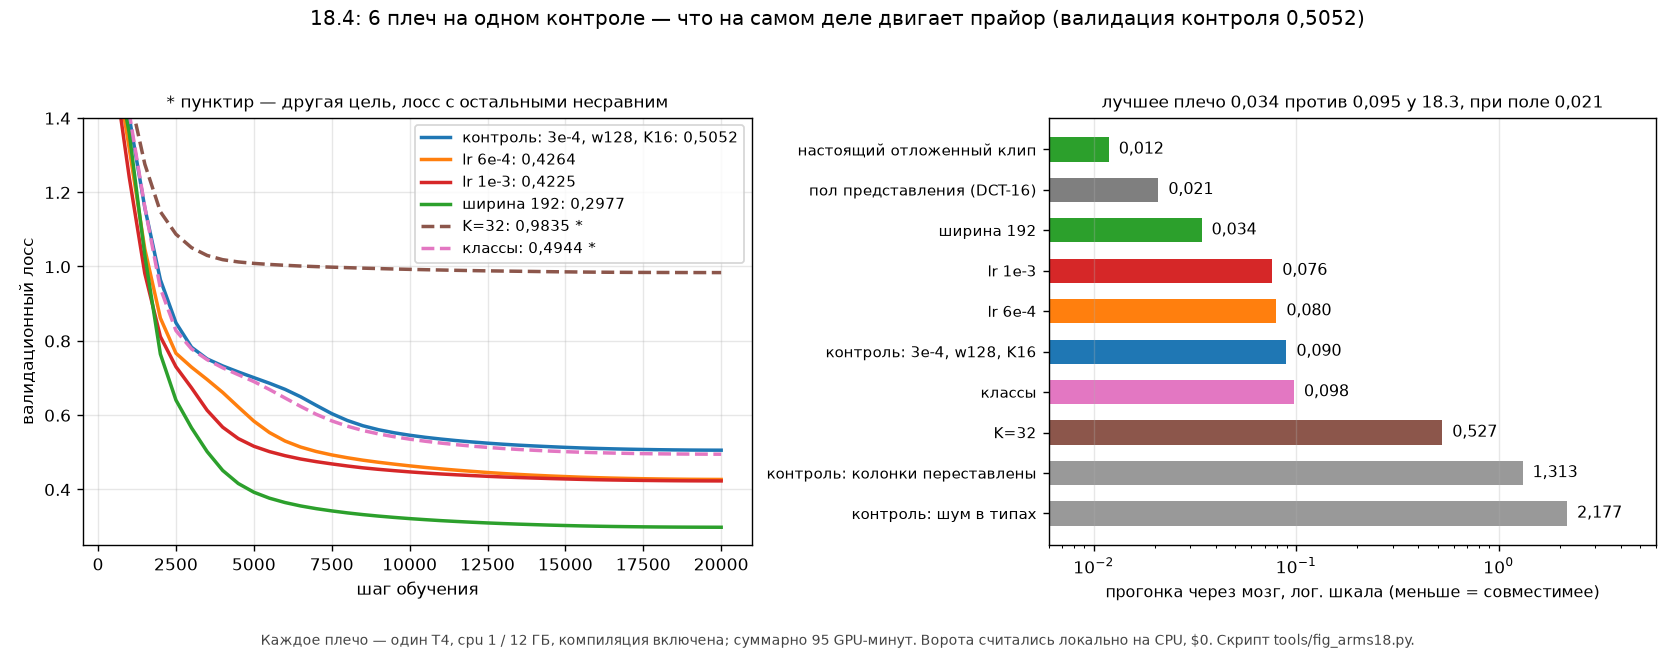
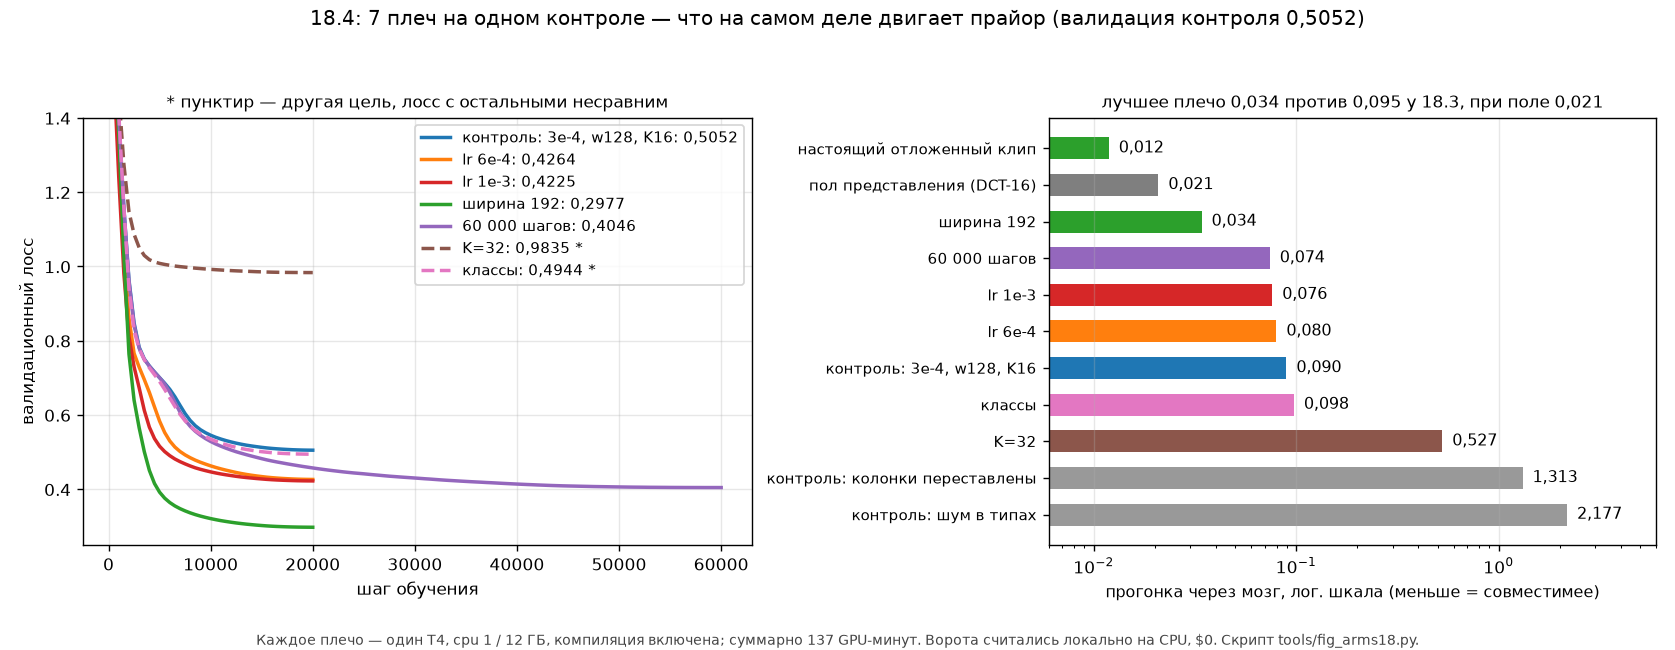
18.4c: 60k steps converge at 0.074 - the rate/length arms collapse onto lr x steps, and the rate buys it 2.8x cheaper; report, roadmap, run log, seven-arm figure

diff --git a/reports/2026-09-20_step18_4_throughput_and_learning_rate.md b/reports/2026-09-20_step18_4_throughput_and_learning_rate.md
@@ -6,7 +6,7 @@ Code `deploy/modal/generate_app.py::{bench17, dct_maps, train17}`,
 `flydream/generate/prior17.py` (compile, class conditioning),
 `flydream/generate/samples17.py` (a label per sample); figures
 `tools/fig_bench17.py`, `tools/fig_lr18.py`, `tools/fig_arms18.py`.
-**Cost: $1.46 on nine Modal containers**; every gate below is local CPU, $0.
+**Cost: $1.93 on ten Modal containers**; every gate below is local CPU, $0.
 Checkpoints on `flydream-runs:/prior18/`, local copies in `data/prior18/`.
 
 The headline in one line: **width 192 moves the main gate 0.095 → 0.034**,
@@ -26,6 +26,7 @@ The gate is the round trip of 16 samples through the frozen brain.
 | lr 6e-4 | 0.4264 | **0.080** | +0.40 |
 | lr 1e-3 | 0.4225 | **0.076** | +0.42 |
 | **width 192** | **0.2977** | **0.034** | +0.45 |
+| 60,000 steps | 0.4046 | **0.074** | +0.38 |
 | K = 32 | 0.9835 ‡ | 0.527 | +0.12 |
 | lr 1e-4 (18.4b, uncompiled) | 0.7328 | 0.591 | +0.16 |
 | *the representation's floor* (a real state at DCT-16) | — | *0.021* | +0.52 |
@@ -85,6 +86,26 @@ DiT/SiT's 1e-4 @ 256 down to our batch. Three arms settle the direction:
 extrapolated 1e-4 is 6.6× worse than our own setting, and the series is still
 improving at 1e-3, so the optimum is at or above 1e-3 and **is not bracketed**.
 It is also flattening: 3e-4 → 6e-4 buys 0.010, 6e-4 → 1e-3 buys 0.004.
+
+**Length is the same lever, bought dearer.** The 60,000-step arm (same 3e-4)
+settles 18.3's open question — validation was still falling at 20,000, and
+running three times longer does converge: −0.41 % over the last 10,000 steps,
+landing at validation 0.4046 and a gate of **0.074**. Put the four arms in
+terms of the product **lr × steps** and they collapse onto one curve:
+
+| lr × steps (units of 1e-4 × 1,000 steps) | arm | round trip | cost |
+|---|---|---|---|
+| 60 | 20k at 3e-4 (control) | 0.090 | $0.18 |
+| 120 | 20k at 6e-4 | 0.080 | $0.17 |
+| 180 | **60k at 3e-4** | **0.074** | **$0.47** |
+| 200 | **20k at 1e-3** | **0.076** | **$0.17** |
+| *60* | *20k at 3e-4, width 192* | *0.034* | *$0.24* |
+
+60k at 3e-4 and 20k at 1e-3 are **interchangeable** (0.074 against 0.076 at 180
+against 200 units) — and the learning rate buys that product **2.8× cheaper**
+than steps do. Width 192 sits at the *same* 60 units as the control and scores
+0.034, entirely off this curve: capacity is a different axis, and it dominates
+the one these four share.
 
 The 1e-4 arm also shows why novelty is never reported alone. Its samples are
 *less* correlated with each other and *further* from the nearest training video
@@ -178,7 +199,9 @@ cell viewed before sending).
 1. **Capacity first.** Width 192 alone is worth more than every other lever
    tested put together, and the prior is no longer the dominant term.
 2. **The learning rate is not bracketed.** 1e-3 is the best measured point and
-   the series has not turned.
+   the series has not turned. What the four length/rate arms share is the
+   product lr × steps; the rate is the cheap way to buy it, and **more steps
+   is the expensive way** — $0.47 for what $0.17 already gives.
 3. **Two levers are dead for now:** classes (no effect — and the same-noise
    diagnostic shows why: the label displaces the sample by r 0.09 where the
    noise decides the rest, and what it carries is not motion) and K = 32 (much
@@ -213,9 +236,10 @@ cell viewed before sending).
 
 ## Cost
 
-Nine containers, all cpu 1 / 12 GB except the maps builder: bench17 120.6 s
+Ten containers, all cpu 1 / 12 GB except the maps builder: bench17 120.6 s
 ≈ $0.03; lr 1e-4 1,243 s ≈ $0.24; `dct_maps` cpu 2 / 24 GB 106.5 s ≈ $0.03;
 then the sweep — control 920 s ≈ $0.18, 6e-4 863 s ≈ $0.17, 1e-3 842 s ≈ $0.17,
-width 192 1,215 s ≈ $0.24, K = 32 1,033 s ≈ $0.23, classes 845 s ≈ $0.17. GPU
+width 192 1,215 s ≈ $0.24, K = 32 1,033 s ≈ $0.23, classes 845 s ≈ $0.17,
+60,000 steps 2,479 s ≈ $0.47. GPU
 utilisation 97-98 % on every training arm. Gates, figures and analysis local
-CPU, $0. **Item 18 total ≈ $2.04.**
+CPU, $0. **Item 18 total ≈ $2.51.**

diff --git a/ROADMAP.md b/ROADMAP.md
@@ -360,6 +360,7 @@ spent.
 | 18.4c higher learning rates | 6e-4 → **0.080**, 1e-3 → **0.076**, against the control's 0.090. With 18.4b the series 1e-4 / 3e-4 / 6e-4 / 1e-3 = 0.591 / 0.090 / 0.080 / 0.076 is monotone: **the optimum is at or above 1e-3 and is not bracketed.** ≈ $0.34 for both. |
 | 18.4d **capacity** | **width 192 (2.64 M par): the gate goes 0.090 → 0.034**, validation 0.5052 → 0.2977. The gap to the representation's floor falls from 4.3× to **1.6×**, and the prior's own share of the error from 0.069 to **0.013** — the floor now dominates. The largest single move in item 18. One T4, 1,215 s, ≈ $0.24. |
 | 18.4d K = 32 | the floor is lower (99.913 % of the energy kept against 99.32 %) and the gate is **5.9× worse**: 0.527. At width 128 the model already binds, so twice the target dimension makes it relatively smaller. Revisit **after** capacity, not instead of it. Maps file by `dct_maps` (cpu 2 / 24 GB, 106 s, ≈ $0.03) built **without touching** the 9 GB original. One T4, 1,033 s, ≈ $0.23. |
+| 18.4c 60,000 steps | **0.074** against the control's 0.090, validation 0.4046 — and converged (−0.41 % over the last 10,000 steps), which settles 18.3's open question. The four rate/length arms collapse onto the product **lr × steps**: 60 / 120 / 180 / 200 units give 0.090 / 0.080 / 0.074 / 0.076, so 60k at 3e-4 and 20k at 1e-3 are interchangeable — and the rate buys that product **2.8× cheaper** than steps. Width 192 sits at the same 60 units as the control at 0.034, off this curve entirely. One T4, 2,479 s, utilisation 95.0 %, ≈ $0.47. |
 | 18.4e classes | 110 labels (101 UCF101 + 9 procedural kinds), DiT-style label embedding: **no effect**, 0.098 against 0.090, inside the spread. The published precedent (conditioning alone, FID 26.21 → 10.94) does not transfer — the research note named the reason in advance: no study covers a label only loosely coupled to the signal. One T4, 845 s, ≈ $0.17. |
 
 `reports/2026-09-20_step18_corpus_of_ordinary_video.md`,
@@ -401,9 +402,10 @@ prior**. So:
    the error from 0.069 to 0.013. The literature reading written the same
    morning ("growing is safe, nothing says capacity is the cause") was right
    about safety and wrong about cause; ≈ $0.24 settled it.
-5. **More steps**: validation was still falling at 20,000 (0.5165 at 14.5k →
-   0.5064 at 20k), but by 2 % over 5,500 steps and decelerating — the cheapest
-   check (≈ $0.66 to 60k), not the most likely cause.
+5. ~~**More steps**~~ — **measured 2026-09-20 (18.4c): it works and it is the
+   expensive way.** 60,000 steps converge at a gate of 0.074, but 20,000 at
+   lr 1e-3 reach 0.076 for **$0.17 against $0.47**. Length and rate buy the
+   same product; the rate is 2.8× cheaper per unit of it.
 6. **Free, local, no GPU**: an MMD permutation test (validated at 5-10 samples
    per group), the same checks in a PCA-32 feature space (rankings stable at
    N = 50) and Carlini's neighbourhood-relative threshold in place of our
